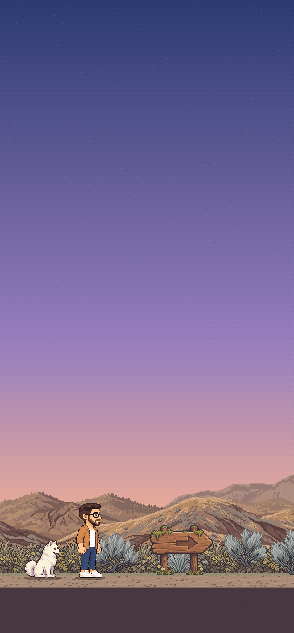
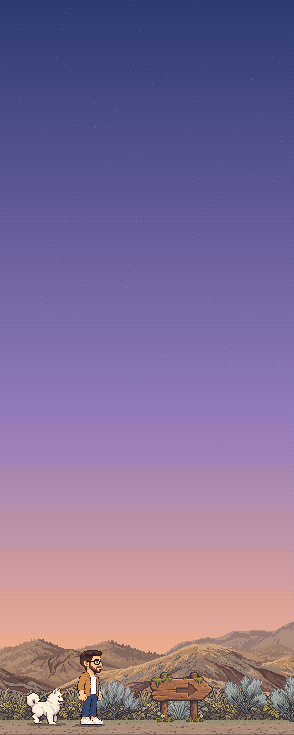
fix(walk): frame the no-script hero still edge to edge
The still did not always reach the top of the stage, and the flat fill
above it met its dithered top row in a hard line. It also kept the empty
soil band where the timeline sits, and showed gems nobody can collect.

The stills are now cropped at the path, wide and tall enough to cover
the stage at any size, and captured after a walk that has collected
every gem.

Changed region(s): [[0.0, 0.6904, 1.0, 1.0], [0.0, 0.6303, 1.0, 0.6603]]

diff --git a/src/styles/walk.css b/src/styles/walk.css
@@ -23,8 +23,7 @@
   }
 
   .walk .walk-view {
-    background: #2c3a72 url("/images/hero-wide.png") no-repeat left bottom;
-    background-size: auto max(round(down, 100%, 300px), 100vw * 300 / 640);
+    background: #2c3a72 url("/images/hero-wide.png") no-repeat left bottom / cover;
     image-rendering: pixelated;
   }
 }
@@ -32,7 +31,6 @@
 @media (scripting: none) and (orientation: portrait) {
   .walk .walk-view {
     background-image: url("/images/hero-tall.png");
-    background-size: 100% auto;
   }
 }
 
